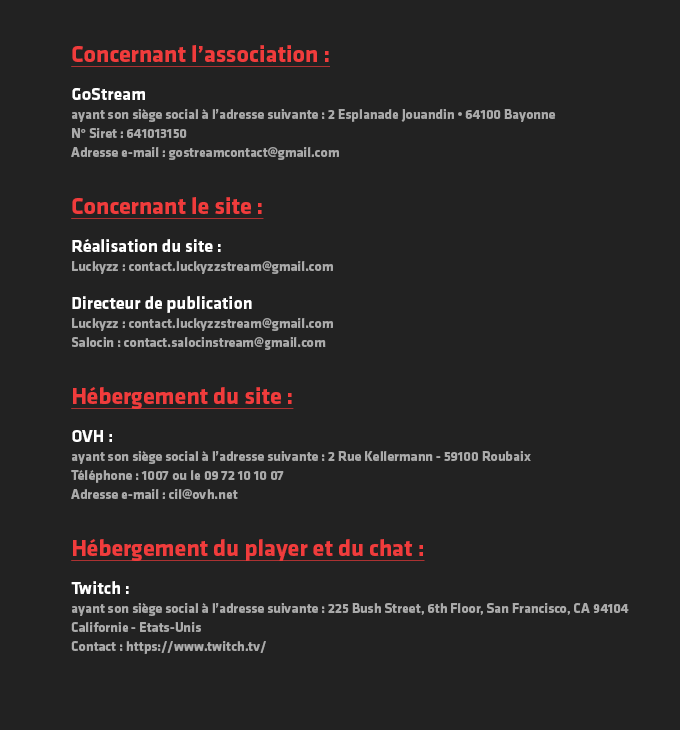
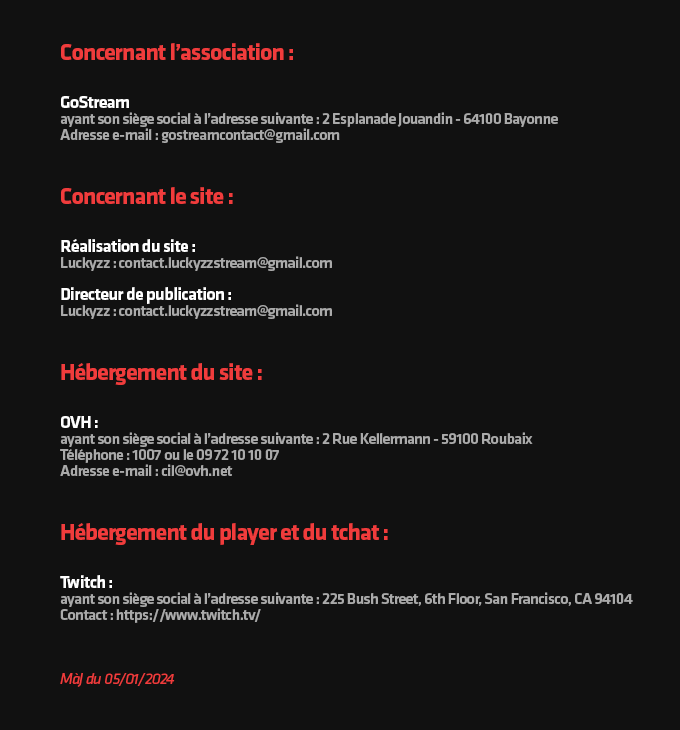
Add files via upload

diff --git a/candidature.html b/candidature.html
@@ -39,7 +39,7 @@
 	            	<li class="nav-item"><a class="nav-link px-2"  target="_blank" href="https://www.tiktok.com/@gostreamfr"><i class="fab fa-tiktok"></i></a></li>
 	            	<li class="nav-item"><a class="nav-link px-2"  target="_blank" href="https://discord.gg/EkkQRgr"><i class="fab fa-discord"></i></a></li>
 	            	<li class="nav-item"><a class="nav-link px-2"  href="candidature.html"><i class="fa-solid fa-user-plus"></i>
-	            	<li class="nav-item"><a class="nav-link px-2"  target="_blank" href="mailto:contact@gostream.fr"><i class="fas fa-envelope"></i></a></li>
+	            	<li class="nav-item"><a class="nav-link px-2"  target="_blank" href="mailto:gostreamcontact@gmail.com"><i class="fas fa-envelope"></i></a></li>
         		</div>
 			</ul>
 

diff --git a/emissions.html b/emissions.html
@@ -42,7 +42,7 @@
 	            	<li class="nav-item"><a class="nav-link px-2"  target="_blank" href="https://www.tiktok.com/@gostreamfr"><i class="fab fa-tiktok"></i></a></li>
 	            	<li class="nav-item"><a class="nav-link px-2"  target="_blank" href="https://discord.gg/EkkQRgr"><i class="fab fa-discord"></i></a></li>
 	            	<li class="nav-item"><a class="nav-link px-2"  href="candidature.html"><i class="fa-solid fa-user-plus"></i>
-	            	<li class="nav-item"><a class="nav-link px-2"  target="_blank" href="mailto:contact@gostream.fr"><i class="fas fa-envelope"></i></a></li>
+	            	<li class="nav-item"><a class="nav-link px-2"  target="_blank" href="mailto:gostreamcontact@gmail.com"><i class="fas fa-envelope"></i></a></li>
         		</div>
 			</ul>
 

diff --git a/equipe.html b/equipe.html
@@ -41,7 +41,7 @@
 	            	<li class="nav-item"><a class="nav-link px-2"  target="_blank" href="https://www.tiktok.com/@gostreamfr"><i class="fab fa-tiktok"></i></a></li>
 	            	<li class="nav-item"><a class="nav-link px-2"  target="_blank" href="https://discord.gg/EkkQRgr"><i class="fab fa-discord"></i></a></li>
 	            	<li class="nav-item"><a class="nav-link px-2"  href="candidature.html"><i class="fa-solid fa-user-plus"></i>
-	            	<li class="nav-item"><a class="nav-link px-2"  target="_blank" href="mailto:contact@gostream.fr"><i class="fas fa-envelope"></i></a></li>
+	            	<li class="nav-item"><a class="nav-link px-2"  target="_blank" href="mailto:gostreamcontact@gmail.com"><i class="fas fa-envelope"></i></a></li>
         		</div>
 			</ul>
 

diff --git a/mentionslegales.html b/mentionslegales.html
@@ -42,7 +42,7 @@
 	            	<li class="nav-item"><a class="nav-link px-2"  target="_blank" href="https://www.tiktok.com/@gostreamfr"><i class="fab fa-tiktok"></i></a></li>
 	            	<li class="nav-item"><a class="nav-link px-2"  target="_blank" href="https://discord.gg/EkkQRgr"><i class="fab fa-discord"></i></a></li>
 	            	<li class="nav-item"><a class="nav-link px-2"  href="candidature.html"><i class="fa-solid fa-user-plus"></i>
-	            	<li class="nav-item"><a class="nav-link px-2"  target="_blank" href="mailto:contact@gostream.fr"><i class="fas fa-envelope"></i></a></li>
+	            	<li class="nav-item"><a class="nav-link px-2"  target="_blank" href="mailto:gostreamcontact@gmail.com"><i class="fas fa-envelope"></i></a></li>
         		</div>
 			</ul>
 

diff --git a/programmation.html b/programmation.html
@@ -43,7 +43,7 @@
 	            	<li class="nav-item"><a class="nav-link px-2"  target="_blank" href="https://www.tiktok.com/@gostreamfr"><i class="fab fa-tiktok"></i></a></li>
 	            	<li class="nav-item"><a class="nav-link px-2"  target="_blank" href="https://discord.gg/EkkQRgr"><i class="fab fa-discord"></i></a></li>
 	            	<li class="nav-item"><a class="nav-link px-2"  href="candidature.html"><i class="fa-solid fa-user-plus"></i>
-	            	<li class="nav-item"><a class="nav-link px-2"  target="_blank" href="mailto:contact@gostream.fr"><i class="fas fa-envelope"></i></a></li>
+	            	<li class="nav-item"><a class="nav-link px-2"  target="_blank" href="mailto:gostreamcontact@gmail.com"><i class="fas fa-envelope"></i></a></li>
         		</div>
 			</ul>
 

diff --git a/candidature.css b/candidature.css
@@ -11,7 +11,7 @@
 }
 
 body {
-  background: #222;
+  background: #111;
 }
 
 /* MENU */

diff --git a/emissions.css b/emissions.css
@@ -11,7 +11,7 @@
 }
 
 body {
-  background: #222;
+  background: #111;
 }
 
 /* MENU */

diff --git a/equipe.css b/equipe.css
@@ -11,7 +11,7 @@
 }
 
 body {
-  background: #222;
+  background: #111;
 }
 
 /* MENU */

diff --git a/index.css b/index.css
@@ -11,7 +11,7 @@
 }
 
 body {
-  background: #222;
+  background: #111;
 }
 
 /* MENU */

diff --git a/mentionslegales.css b/mentionslegales.css
@@ -11,7 +11,7 @@
 }
 
 body {
-  background: #222;
+  background: #111;
 }
 
 /* MENU */

diff --git a/programmation.css b/programmation.css
@@ -11,7 +11,7 @@
 }
 
 body {
-  background: #222;
+  background: #111;
 }
 
 /* MENU */
